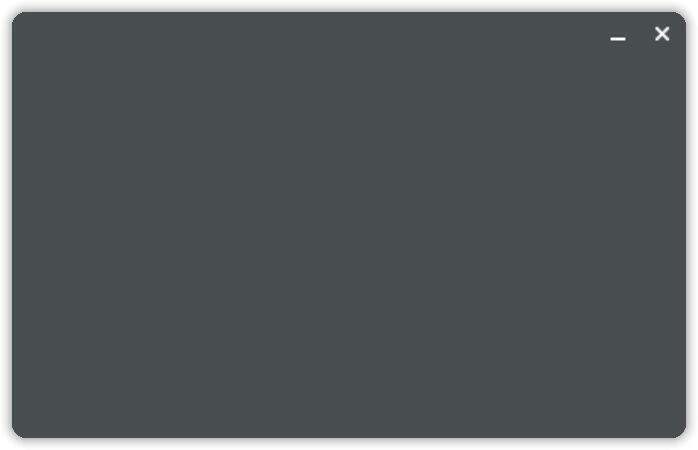
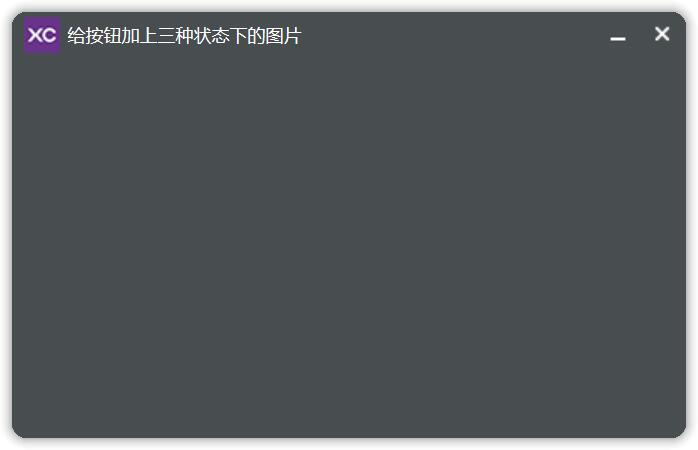
按钮图片

Changed region(s): [[0.0301, 0.0311, 0.4513, 0.1244]]

diff --git a/ButtonImage/ButtonImage.go b/ButtonImage/ButtonImage.go
@@ -5,7 +5,7 @@ package main
 
 import (
 	_ "embed"
-	"fmt"
+	"log"
 
 	"github.com/twgh/xcgui/app"
 	"github.com/twgh/xcgui/imagex"
@@ -24,11 +24,12 @@ var (
 
 func main() {
 	// 1.初始化UI库
+	app.InitOrExit()
 	a := app.New(true)
-	a.EnableDPI(true)
-	a.EnableAutoDPI(true)
-	// 2.创建窗口
-	w := window.New(0, 0, 465, 300, "", 0, xcc.Window_Style_Simple|xcc.Window_Style_Title|xcc.Window_Style_Drag_Window)
+	a.EnableAutoDPI(true).EnableDPI(true)
+
+	// 2.创建窗口, ^是去除样式, |是添加样式
+	w := window.New(0, 0, 465, 300, "给按钮加上三种状态下的图片", 0, xcc.Window_Style_Default|xcc.Window_Style_Drag_Window^xcc.Window_Style_Btn_Min^xcc.Window_Style_Btn_Max^xcc.Window_Style_Btn_Close)
 	// 设置窗口透明类型
 	w.SetTransparentType(xcc.Window_Transparent_Shadow)
 	// 设置窗口阴影
@@ -58,18 +59,19 @@ func main() {
 
 // 给按钮加上三态图片
 func setBtnImg(btn *widget.Button, file []byte) {
+	var img *imagex.Image
 	for i := int32(0); i < 3; i++ {
 		x := i * 31
 		// 图片_加载从内存, 指定区域位置及大小
-		img := imagex.NewByMemRect(file, x, 0, 30, 30)
+		img = imagex.NewByMemRect(file, x, 0, 30, 30)
 
 		if img.Handle == 0 {
-			fmt.Println("Error: hImg=", img.Handle)
+			log.Println("Error: hImg = 0")
 			continue
 		}
-
 		// 启用图片透明色
 		img.EnableTranColor(true)
+
 		// 添加背景图片
 		switch i {
 		case 0:
